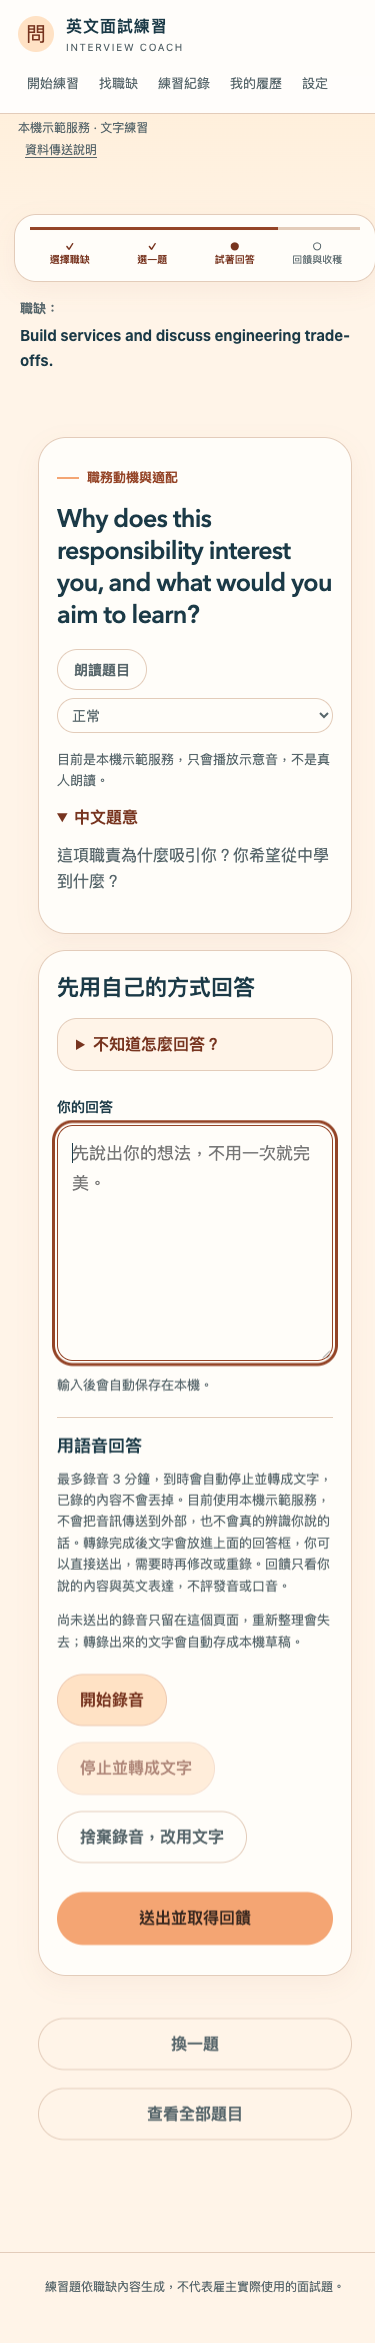
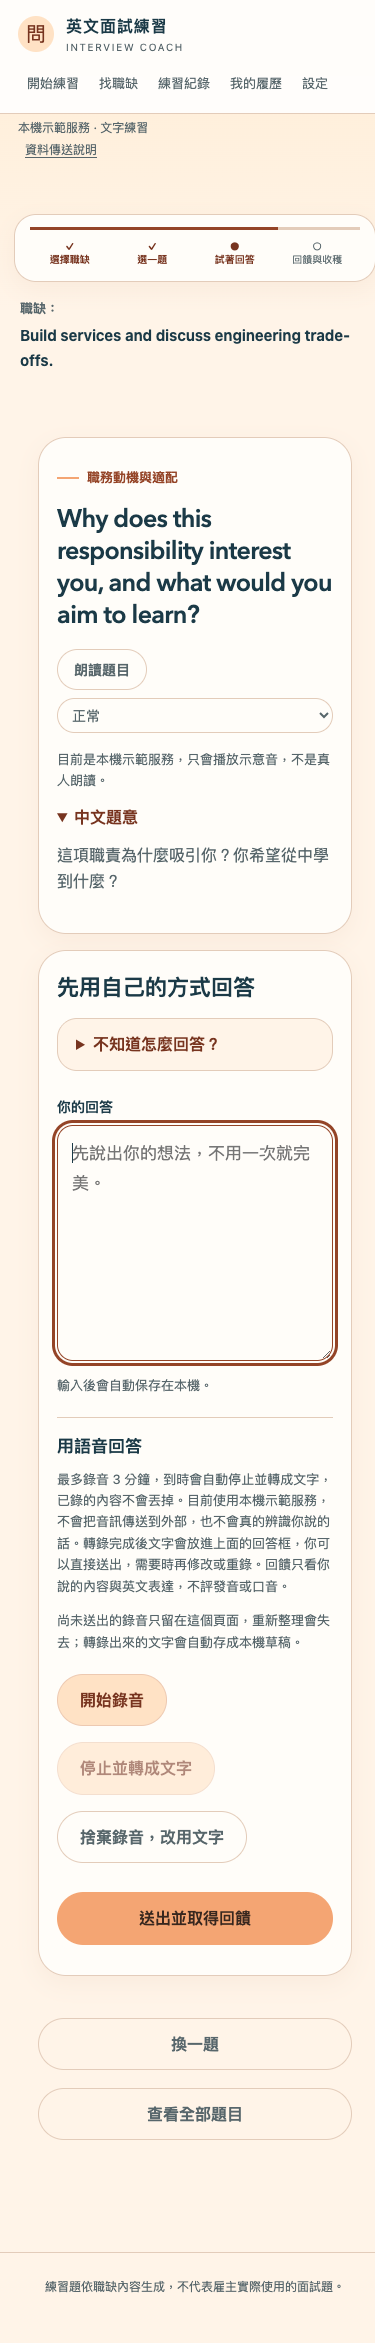
fix: Stop a primary revision from deleting a follow-up recording
An independent review found that a follow-up Answer Recording carries both the
practice recordId and its own followUpId, while the primary-answer cleanup
filtered on recordId alone. Answering, getting feedback, starting a follow-up,
recording it, then re-recording the primary answer deleted the follow-up audio
and its file, and submitting that follow-up then failed. Reproduced with a
failing test first; both primary filters now exclude follow-up recordings.

Three further review findings, all fixed:

- A cascading job or session delete derived its file list before the
  transaction, so a recording retained in between outlived its owner and stayed
  servable forever, since the startup sweep only removes unreferenced files.
  Ownership is re-derived from the live data inside the transaction, and
  playback refuses a recording whose owner no longer exists.
- A practice or session deleted mid-transcription threw a raw TypeError that
  surfaced as a misleading retryable 502 instead of a clean 409.
- Per-entry session operations shared the session id as their target, so
  opening feedback for one question blocked corrections on another. The target
  is scoped to the entry, and cancelTarget matches those scoped ids.

diff --git a/src/server.js b/src/server.js
@@ -39,6 +39,19 @@ export async function createApplication({directory = '.workspace', languageModel
   // Removing files only after the transaction that dropped their references commits
   // means a crash can leave an unreferenced file (swept above), never a dead reference.
   const commitThenDelete = async (doomed, update) => { const result = await update(); await recordings.remove(doomed); return result; };
+  // For a cascading delete the set to remove must be derived from the live data inside
+  // the transaction: a pre-transaction snapshot can miss a recording another request
+  // retained in the meantime, leaving audio that is orphaned but still servable.
+  const deleteOwnedRecordings = async (owns, update) => {
+    const removed = [];
+    const result = await store.transact(d => {
+      removed.length = 0;
+      for (const entry of Object.values(d.recordings || {})) if (owns(entry, d)) { removed.push({id: entry.id, mimeType: entry.mimeType}); delete d.recordings[entry.id]; }
+      return update(d);
+    });
+    await recordings.remove(removed);
+    return result;
+  };
   const item = (collection, id) => { const held = store.data[collection] || {}; const value = typeof id === 'string' && Object.hasOwn(held,id) ? held[id] : undefined; requireValue(value, 'Not found', 404); return structuredClone(value); };
   // Read-aloud resolves English text from stored content; the browser may only send a
   // reference. Chinese-by-contract fields (meaningZh, reasonZh, explanationZh…) are not
@@ -194,8 +207,13 @@ export async function createApplication({directory = '.workspace', languageModel
         for (const id of recordIds) await operations.cancelTarget(id);
         const sessionIds = sessionsFor(store.data, s => s.snapshotId === snapshot.id).map(s => s.id);
         for (const id of sessionIds) await operations.cancelTarget(id);
-        const owned = recordingsFor(store.data, entry => recordIds.includes(entry.recordId) || sessionIds.includes(entry.sessionId));
-        return commitThenDelete(owned, () => commit(d => {for (const r of Object.values(d.records)) if (r.snapshotId===snapshot.id) removeRecord(d,r.id);for (const id of sessionIds){delete d.mockSessions?.[id];}for (const entry of owned) delete d.recordings?.[entry.id];delete d.snapshots[snapshot.id];delete d.analyses[snapshot.id];for (const c of Object.values(d.evidenceClaims||{})) c.capabilityLinks=c.capabilityLinks.filter(l=>l.snapshotId!==snapshot.id);cleanDerivedState(d);return {deleted:snapshot.id};}));
+        // Ownership is re-derived from the live data, so a recording another request
+        // retained between the read and this transaction is still deleted with its job.
+        const ownedByThisJob = (entry, d) => {
+          const owner = entry.recordId ? d.records[entry.recordId] : entry.sessionId ? d.mockSessions?.[entry.sessionId] : null;
+          return owner?.snapshotId === snapshot.id;
+        };
+        return deleteOwnedRecordings(ownedByThisJob, d => {for (const r of Object.values(d.records)) if (r.snapshotId===snapshot.id) removeRecord(d,r.id);for (const s of Object.values(d.mockSessions||{})) if (s.snapshotId===snapshot.id) delete d.mockSessions[s.id];delete d.snapshots[snapshot.id];delete d.analyses[snapshot.id];for (const c of Object.values(d.evidenceClaims||{})) c.capabilityLinks=c.capabilityLinks.filter(l=>l.snapshotId!==snapshot.id);cleanDerivedState(d);return {deleted:snapshot.id};});
       }
       const current = store.data.analyses[snapshot.id];
       const view = analysis => ({...recommendWithFocus(questionSetView(analysis, Object.values(store.data.records), snapshot.id), store.data, snapshot.id), evidenceContext: evidenceContext(store.data, snapshot.id, analysis.capabilities.map(c => c.id))});
@@ -310,13 +328,11 @@ export async function createApplication({directory = '.workspace', languageModel
       if (method === 'GET' && !action) return sessionView(session);
       if (method === 'DELETE' && !action) {
         await operations.cancelTarget(session.id);
-        const owned = recordingsFor(store.data, entry => entry.sessionId === session.id);
-        return commitThenDelete(owned, () => commit(d => {
+        return deleteOwnedRecordings(entry => entry.sessionId === session.id, d => {
           requireValue(d.mockSessions?.[session.id], 'Not found', 404);
-          for (const entry of owned) delete d.recordings[entry.id];
           delete d.mockSessions[session.id];
           return {deleted: session.id};
-        }));
+        });
       }
       if (method === 'POST' && (action === 'answer' || action === 'skip')) {
         // An idempotent resubmit is answered before the ordering guard: the learner has
@@ -554,10 +570,13 @@ export async function createApplication({directory = '.workspace', languageModel
         try { transcript = await transcribeRecording({store: recordings, provider: speechProvider, entry: captured, signal: context?.signal}); }
         catch (error) { await recordings.remove([captured]); throw error; }
         // A new recording for this practice supersedes an earlier unsubmitted one.
-        const superseded = recordingsFor(store.data, entry => entry.state === 'pending' && entry.recordId === record.id);
+        // Follow-up recordings also carry this recordId, so they must be excluded here:
+        // recording a primary revision must never discard an unsubmitted follow-up take.
+        const superseded = recordingsFor(store.data, entry => entry.state === 'pending' && entry.recordId === record.id && !entry.followUpId);
         try {
           return await commitThenDelete(superseded, () => commit(d => {
             const r = d.records[record.id];
+            requireValue(r, 'Practice was deleted', 409);
             requireValue(r.status !== 'completed' && r.attempts.length === record.attempts.length, 'Practice changed; reload', 409);
             d.recordings ??= {};
             for (const entry of superseded) delete d.recordings[entry.id];
@@ -594,7 +613,7 @@ export async function createApplication({directory = '.workspace', languageModel
         if (voice) requireValue(record.transcriptDraft?.id === input.transcriptDraftId, 'Transcript draft changed; review again', 409);
         // Promote this answer's recording; drop any other unsubmitted one for this practice.
         const promotedId = voice ? record.transcriptDraft.recordingId : undefined;
-        const abandoned = recordingsFor(store.data, entry => entry.state === 'pending' && entry.recordId === record.id && entry.id !== promotedId);
+        const abandoned = recordingsFor(store.data, entry => entry.state === 'pending' && entry.recordId === record.id && !entry.followUpId && entry.id !== promotedId);
         const attempt = {id: randomUUID(), transcript: input.transcript, inputMode: voice ? 'voice' : 'text', submittedAt: new Date().toISOString(), ...(input.submissionId ? {submissionId: input.submissionId} : {}),
           // The recording is evidence of what was said; an edited transcript is labelled,
           // never re-cut, so the audio is not presented as matching the edited text.
@@ -654,7 +673,10 @@ export async function createApplication({directory = '.workspace', languageModel
       if (req.method === 'GET' && playback) {
         if (req.headers.origin) requireValue(req.headers.origin === `http://${req.headers.host}`, 'Cross-origin request rejected', 403);
         const entry = store.data.recordings?.[playback[1]];
-        requireValue(entry && entry.state === 'retained', 'Recording is no longer available', 404);
+        // Defence in depth: an entry whose owning practice or session is gone is treated
+        // as deleted, so no recording can outlive the thing the learner deleted.
+        const owner = entry?.recordId ? store.data.records?.[entry.recordId] : entry?.sessionId ? store.data.mockSessions?.[entry.sessionId] : null;
+        requireValue(entry && entry.state === 'retained' && owner, 'Recording is no longer available', 404);
         let content;
         try { content = await recordings.read(entry); }
         catch (error) { requireValue(error.code !== 'ENOENT', 'Recording is no longer available', 404); throw error; }
@@ -672,9 +694,10 @@ export async function createApplication({directory = '.workspace', languageModel
           const followUpFeedback=path.match(/^\/api\/records\/([^/]+)\/follow-ups\/[^/]+\/feedback$/);
           const followUpTranscription=path.match(/^\/api\/records\/([^/]+)\/follow-ups\/([^/]+)\/transcription$/);
           const sessionSummary=path.match(/^\/api\/mock-sessions\/([^/]+)\/summary$/);
-          const sessionEntry=path.match(/^\/api\/mock-sessions\/([^/]+)\/entries\/[^/]+\/(feedback|transcription|corrections|coaching)$/);
+          const sessionEntry=path.match(/^\/api\/mock-sessions\/([^/]+)\/entries\/([^/]+)\/(feedback|transcription|corrections|coaching)$/);
           if(sessionSummary)external={targetId:sessionSummary[1],kind:'session-summary'};
-          else if(sessionEntry)external={targetId:sessionEntry[1],kind:`session-${sessionEntry[2]}`};
+          // Scoped to the entry: opening feedback for one question must not block another.
+          else if(sessionEntry)external={targetId:`${sessionEntry[1]}:${sessionEntry[2]}`,kind:`session-${sessionEntry[3]}`};
           else if(standard)external={targetId:standard[1],kind:standard[2]};
           else if(followUpGeneration)external={targetId:followUpGeneration[1],kind:'follow-up'};
           else if(followUpFeedback)external={targetId:followUpFeedback[1],kind:'follow-up-feedback'};
@@ -690,11 +713,13 @@ export async function createApplication({directory = '.workspace', languageModel
           if (op.kind==='feedback') return item('records',op.targetId);
           if (op.kind==='transcription') {const r=item('records',op.targetId);requireValue(r.transcriptDraft?.id===op.resultId,'Transcript already consumed; reopen saved record',409);return r.transcriptDraft;}
           if (op.kind==='follow-up-transcription') {const r=item('records',op.targetId);const draft=(r.followUps||[]).map(n=>n.transcriptDraft).find(d=>d?.id===op.resultId);requireValue(draft,'Transcript already consumed; reopen saved record',409);return draft;}
+          // A per-entry operation's targetId is `${sessionId}:${entryId}`.
+          const ofSession = () => item('mockSessions', op.targetId.split(':')[0]);
           if (op.kind==='session-summary') return sessionView(item('mockSessions',op.targetId));
-          if (op.kind==='session-transcription') {const s=item('mockSessions',op.targetId);requireValue(s.transcriptDraft?.id===op.resultId,'Transcript already consumed; reopen the session',409);return s.transcriptDraft;}
-          if (op.kind==='session-feedback') {const s=item('mockSessions',op.targetId);const entry=s.entries.find(e=>e.id===op.resultId);requireValue(entry,'Session answer no longer available',409);return entry;}
-          if (op.kind==='session-corrections') {const s=item('mockSessions',op.targetId);const saved=s.entries.map(e=>e.corrections).find(c=>c?.id===op.resultId);requireValue(saved,'Corrections no longer available',409);return saved;}
-          if (op.kind==='session-coaching') {const s=item('mockSessions',op.targetId);const saved=s.entries.flatMap(e=>Object.values(e.coaching||{})).find(c=>c.id===op.resultId);requireValue(saved,'Assistance no longer available',409);return saved;}
+          if (op.kind==='session-transcription') {const s=ofSession();requireValue(s.transcriptDraft?.id===op.resultId,'Transcript already consumed; reopen the session',409);return s.transcriptDraft;}
+          if (op.kind==='session-feedback') {const s=ofSession();const entry=s.entries.find(e=>e.id===op.resultId);requireValue(entry,'Session answer no longer available',409);return entry;}
+          if (op.kind==='session-corrections') {const s=ofSession();const saved=s.entries.map(e=>e.corrections).find(c=>c?.id===op.resultId);requireValue(saved,'Corrections no longer available',409);return saved;}
+          if (op.kind==='session-coaching') {const s=ofSession();const saved=s.entries.flatMap(e=>Object.values(e.coaching||{})).find(c=>c.id===op.resultId);requireValue(saved,'Assistance no longer available',409);return saved;}
           if (op.kind==='interpret') {const saved=store.data.jobSearchProposal;requireValue(saved?.id===op.resultId,'Search criteria expired; describe the job again',409);return saved;}
           if (op.kind==='url') return item('snapshots',op.resultId);
           const run=store.data.discoveryRuns?.[op.resultId];requireValue(run,'Discovery run expired; start a new request',409);return run;

diff --git a/test/recordings.test.js b/test/recordings.test.js
@@ -187,6 +187,39 @@ test('a restart keeps retained recordings, sweeps pending ones and removes unref
   assert.equal((await fetch(`${session.base}/api/recordings/${pendingId}`)).status, 404);
 });
 
+// Regression: a cascading delete derived its file list before the transaction, so a
+// recording retained in between could survive its owner and stay permanently servable.
+test('a cascading delete removes recordings derived from the live data, not a stale list', async t => {
+  const {api, directory, base, store} = await harness(t, undefined, {speechProvider: speaking()});
+  const {snapshot, record} = await setup(api);
+  await submitSpoken(api, record.id, {text: 'first answer'});
+
+  // Simulate a recording that appears after a delete has read the workspace: write it
+  // directly, exactly as a concurrent promotion would.
+  const sneaked = {id: '11111111-2222-3333-4444-555555555555', mimeType: 'audio/webm', bytes: 8, capturedAt: new Date().toISOString(), recordId: record.id, state: 'retained', attemptId: 'late'};
+  await store.transact(d => { d.recordings[sneaked.id] = sneaked; });
+  const {RecordingStore} = await import('../src/recordings.js');
+  await new RecordingStore(directory).open().then(s => s.write(sneaked, Buffer.from('lateaudi')));
+  assert.equal((await files(directory)).length, 2);
+
+  assert.equal((await api(`/snapshots/${snapshot.id}`, undefined, 'DELETE')).status, 200);
+  assert.deepEqual(await files(directory), [], 'every recording owned by the job is gone');
+  assert.deepEqual((await workspace(api)).recordings, {});
+  assert.equal((await fetch(`${base}/api/recordings/${sneaked.id}`)).status, 404);
+});
+
+test('a recording whose owner no longer exists is not servable', async t => {
+  const {api, base, store} = await harness(t, undefined, {speechProvider: speaking()});
+  const {record} = await setup(api);
+  await submitSpoken(api, record.id, {text: 'orphan me'});
+  const id = (await api(`/records/${record.id}`)).data.attempts[0].recordingId;
+  assert.equal((await fetch(`${base}/api/recordings/${id}`)).status, 200);
+
+  // Drop the owning practice but leave the reference, as a partial delete would.
+  await store.transact(d => { delete d.records[record.id]; });
+  assert.equal((await fetch(`${base}/api/recordings/${id}`)).status, 404, 'audio must not outlive the practice it belongs to');
+});
+
 test('playback refuses unknown ids, cross-origin requests and a reference whose file vanished', async t => {
   const {api, directory, base} = await harness(t, undefined, {speechProvider: speaking()});
   const {record} = await setup(api);

diff --git a/test/voice-paths.test.js b/test/voice-paths.test.js
@@ -122,6 +122,25 @@ test('follow-up recording preconditions and failures leave saved state untouched
   assert.equal((await files(directory)).length, 2);
 });
 
+// Regression: a follow-up recording carries the practice's recordId as well as its own
+// followUpId, so the primary-answer cleanup used to sweep it away.
+test('recording a primary revision does not destroy an unsubmitted follow-up recording', async t => {
+  const {api, directory} = await harness(t, undefined, {speechProvider: speaking()});
+  const {record} = await setup(api);
+  await primaryAnswer(api, record.id, 'primary one');
+  const node = (await api(`/records/${record.id}/follow-ups`, {})).data;
+  const followUp = (await api(`/records/${record.id}/follow-ups/${node.id}/transcription`, audio('follow-up take'))).data;
+
+  // The learner goes back and re-records the primary answer instead.
+  await api(`/records/${record.id}/transcription`, audio('primary revision'));
+  assert.ok((await api('/workspace')).data.recordings[followUp.recordingId], 'the follow-up recording must survive');
+  assert.equal((await api(`/records/${record.id}`)).data.followUps[0].transcriptDraft?.recordingId, followUp.recordingId);
+  const submitted = await api(`/records/${record.id}/follow-ups/${node.id}/attempt`, {transcript: followUp.transcript, transcriptDraftId: followUp.id});
+  assert.equal(submitted.status, 200, JSON.stringify(submitted.data));
+  assert.equal(submitted.data.attempt.recordingId, followUp.recordingId);
+  assert.equal((await files(directory)).length, 3, 'primary answer, primary revision draft and follow-up all kept');
+});
+
 test('a superseded follow-up recording is dropped and typing instead abandons it', async t => {
   const {api, directory} = await harness(t, undefined, {speechProvider: speaking()});
   const {record} = await setup(api);

diff --git a/src/operations.js b/src/operations.js
@@ -12,7 +12,9 @@ export class Operations {
     this.controllers.get(id)?.abort(new AppError('Operation cancelled',409));
     return this.store.transact(d=>{const o=d.operations?.[id];requireValue(o,'Operation not found',404);if(o.state==='pending'){o.state='cancelled';o.retryable=true;o.errorCode='CANCELLED';}return o;});
   }
-  async cancelTarget(target){for(const [id,controller]of this.controllers){const o=this.store.data.operations?.[id];if(!target||o?.targetId===target)await this.cancel(id);}}
+  // A per-entry operation's targetId is `${ownerId}:${entryId}`, so cancelling an owner
+  // must also cancel the operations scoped to its parts.
+  async cancelTarget(target){for(const [id,controller]of this.controllers){const o=this.store.data.operations?.[id];if(!target||o?.targetId===target||o?.targetId?.startsWith(target+':'))await this.cancel(id);}}
   async dismiss(id){
     requireValue(Object.hasOwn(this.store.data.operations||{},id),'Operation not found',404);
     return this.store.transact(d=>{const o=d.operations?.[id];requireValue(o,'Operation not found',404);requireValue(o.state!=='pending','Cancel a pending operation before dismissing it',409);delete d.operations[id];return {dismissed:id};});

diff --git a/src/mock-sessions.js b/src/mock-sessions.js
@@ -53,6 +53,8 @@ export const currentEntry = session => session.entries.find(entry => !entry.answ
 export const sessionFinished = session => session.entries.every(entry => entry.answer || entry.skipped);
 
 export function requireCurrentEntry(session, entryId) {
+  // The session can be deleted by a concurrent request between the read and the commit.
+  requireValue(session, 'This mock session was deleted', 409);
   const entry = currentEntry(session);
   requireValue(session.status === 'in-progress', 'This mock session is already finished', 409);
   requireValue(entry, 'Every question in this session is already answered or skipped', 409);

diff --git a/docs/verification/third-round-0014-0020.md b/docs/verification/third-round-0014-0020.md
@@ -5,7 +5,7 @@ curated job discovery (0019–0020) integrated and exercised together.
 
 ## Automated evidence
 
-- `npm test` — **160/160 pass** (108 before this round). New files:
+- `npm test` — **163/163 pass** (108 before this round). New files:
   `read-aloud`, `recording-limits`, `recordings`, `voice-paths`, `mock-sessions`,
   `search-interpretation`, `job-curation`.
 - `npm run test:browser` — **PASS**, one walk covering read-aloud (no autoplay,
@@ -71,6 +71,38 @@ Against a real server (`WORKSPACE_DIR` scratch workspace, port 4399) in Chrome
 7. **Stale evaluation artifacts** (pre-existing, from the 0013 provider trim) were
    regenerated in their own commit.
 
+### Second independent review (issues 0016–0018)
+
+A completed review of the recording, voice-path and session commits found four more
+defects. All are fixed; the first two are covered by new regression tests.
+
+8. **CONFIRMED, data loss — recording a primary revision destroyed an unsubmitted
+   follow-up recording.** A follow-up recording carries both `recordId` and
+   `followUpId`, but the primary-answer cleanup filtered on `recordId` alone, so it
+   swept the follow-up's own pending take. Deterministic, no race needed: answer,
+   get feedback, start a follow-up, record it, then re-record the primary answer —
+   the follow-up audio and its file were deleted and submitting it failed with
+   "Recording is no longer available". Reproduced with a failing test before fixing,
+   then fixed by excluding follow-up-scoped recordings from both primary filters.
+9. **Cascading delete could orphan a recording permanently.** `DELETE /snapshots/:id`
+   and `DELETE /mock-sessions/:id` derived their file list *before* the transaction,
+   so a recording retained in between kept both its reference and its file, survived
+   its owner, and stayed servable forever (the startup sweep only removes files with
+   *no* reference). Ownership is now re-derived from the live data inside the
+   transaction, and the playback route additionally refuses a recording whose owning
+   practice or session no longer exists.
+10. **Unguarded null dereference** when a practice or session was deleted mid-
+    transcription: a raw `TypeError` surfaced as a misleading retryable 502 instead of
+    a clean "was deleted" 409.
+11. **Per-entry session operations collided.** Opening feedback for one session
+    question and corrections for another gave a spurious "operation already pending",
+    because both used the session id as the operation target. The target is now scoped
+    to the entry, and `cancelTarget` matches those scoped ids so cancelling a session
+    still cancels them.
+
+The same review found **no path-traversal vector** and confirmed the data-integrity
+invariant on every other path it traced.
+
 ## Known limits — what is NOT verified
 
 - **Real microphone and real transcription are unverified.** Every recording check
@@ -96,8 +128,8 @@ Against a real server (`WORKSPACE_DIR` scratch workspace, port 4399) in Chrome
   jobs is not.
 - **Job source coverage is narrow.** Greenhouse boards plus the demonstration
   source. 104 was investigated and is not shipped.
-- **No independent review for issues 0016–0020.** The reviewer for 0016 hit an API
-  session limit part-way through; 0017–0020 were never reviewed. The two areas most
-  warranting an independent read are the recording data-integrity invariant with
-  `RecordingStore` path safety, and outbound-data discipline in discovery.
+- **Issues 0019–0020 have had no independent review.** The completed review covered
+  0016–0018 only; discovery's outbound-data discipline has not been read by anyone
+  but me, though it is covered by a test asserting the resume never reaches a job
+  source.
 - Phone-browser acceptance is deferred; desktop only this round.

diff --git a/docs/verification/0016.md b/docs/verification/0016.md
@@ -3,12 +3,14 @@
 Date: 2026-09-21. Implements [ADR 0019](../adr/0019-retain-local-answer-recordings-for-playback.md).
 Implementation by the main agent.
 
-**An independent review of this issue was started and did not complete** (the
-reviewer hit an API session limit part-way through). The evidence below is
-therefore automated-test and self-review evidence only. The data-integrity
-invariant — a crash may leave an unreferenced file, never a reference without its
-file — and the path-safety of `RecordingStore.path()` are the two areas that most
-warrant an independent read before this is considered settled.
+A first independent review hit an API session limit part-way through; a second
+completed and covered issues 0016–0018 together. Its findings are recorded in
+[the third-round integration verification](./third-round-0014-0020.md) and were
+all fixed. It found **no path-traversal vector** in `RecordingStore.path()`
+(server-generated UUIDs plus a whitelisted media type; the playback route uses the
+learner-supplied segment only as a lookup key), and confirmed the data-integrity
+invariant holds on every path it traced except the cascading-delete case listed
+there, which is now fixed and covered by a regression test.
 
 | AC | Evidence |
 |---|---|
